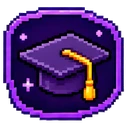
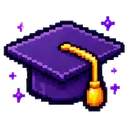
Prestiż: nowe, lepsze ikonki 8-bit tytułów (bez ramek, z iskierkami)
Claude-Session: https://claude.ai/code/session_01XXanGnhjjnzsxd4etEsKKt

diff --git a/app.js b/app.js
@@ -10,7 +10,7 @@ const uid = () => Date.now().toString(36) + Math.random().toString(36).slice(2, 
 const esc = s => String(s ?? '').replace(/[&<>"']/g, c => ({ '&': '&amp;', '<': '&lt;', '>': '&gt;', '"': '&quot;', "'": '&#39;' }[c]));
 const fmt = s => esc(s).replace(/\n/g, '<br>');
 const MIN = 60e3, HOUR = 36e5, DAY = 864e5;
-const APP_VERSION = '159';   // podbijaj razem z CACHE w sw.js
+const APP_VERSION = '160';   // podbijaj razem z CACHE w sw.js
 const shuffle = a => { for (let i = a.length - 1; i > 0; i--) { const j = Math.random() * (i + 1) | 0; [a[i], a[j]] = [a[j], a[i]]; } return a; };
 const clamp = (v, a, b) => Math.max(a, Math.min(b, v));
 

diff --git a/sw.js b/sw.js
@@ -1,5 +1,5 @@
 // Offline: aplikacja działa bez internetu. Zmień numer wersji przy każdej aktualizacji plików.
-const CACHE = 'fiszki-v159';
+const CACHE = 'fiszki-v160';
 const ASSETS = ['./', 'index.html', 'styles.css', 'app.js', 'manifest.webmanifest',
   'icons/icon-192.png', 'icons/icon-512.png', 'icons/apple-touch-icon.png', 'assets/reakcja-kot.webp', 'assets/stickers/kot-zolnierz.webp', 'assets/stickers/kot-zolnierz-cut.webp'];
 
